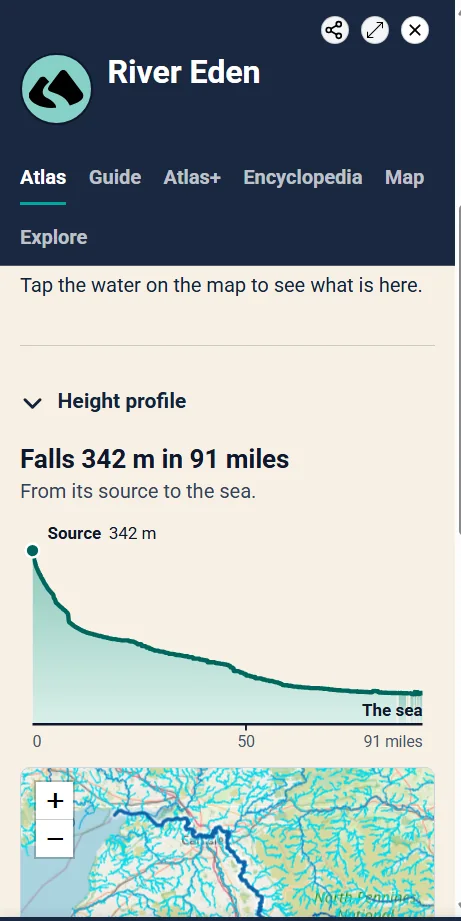
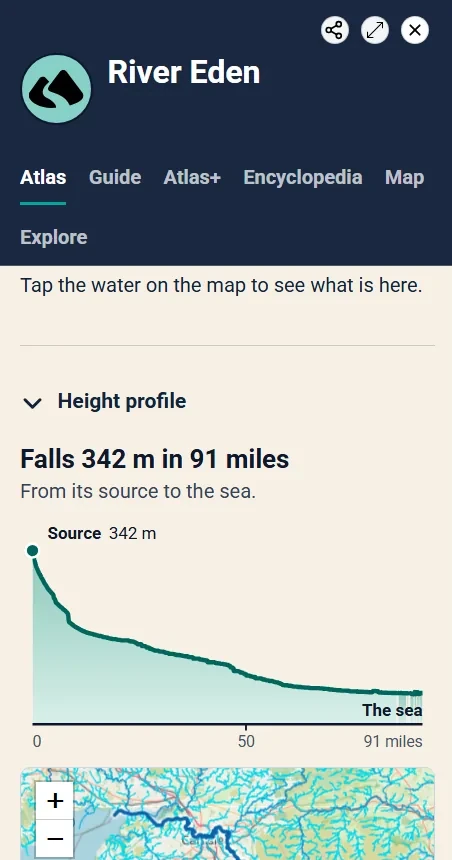
Crop the beta screens to the panel itself
Each of the six screens carried a 9-pixel strip of the browser's own
scrollbar down its right-hand side, which showed as a ragged gap inside
the phone frame. Crop each to the panel (452 x 860, the part the frame
shows), set the frame's proportions to match, and version the CSS and
image links so browsers fetch the new files.

diff --git a/index.html b/index.html
@@ -19,7 +19,7 @@
   <meta name="twitter:card" content="summary_large_image" />
   <link rel="icon" href="assets/images/raster/boat_button.png" />
   <link rel="stylesheet" href="https://fonts.googleapis.com/css?family=Roboto:400,500,700,900&display=swap" />
-  <link rel="stylesheet" href="assets/css/site.css?v=20261118-1" />
+  <link rel="stylesheet" href="assets/css/site.css?v=20261119-1" />
 </head>
 <body>
   <a class="skip-link" href="#main-content">Skip to main content</a>
@@ -136,7 +136,7 @@
             <li>River Paths</li><li>Viewing Points</li><li>Riverside Food and Drink</li><li>Toilets</li>
           </ul>
           <figure class="atlas-card__screen">
-            <img src="assets/images/screens/walks-richmond-hill.webp" width="461" height="921" loading="lazy" alt="The EveryRiver panel for Richmond Hill, a viewing point on the River Thames: a photo of the view over Glover’s Island, and its view types, panorama, heritage view, boating view and urban riverscape." />
+            <img src="assets/images/screens/walks-richmond-hill.webp?v=20261119" width="452" height="860" loading="lazy" alt="The EveryRiver panel for Richmond Hill, a viewing point on the River Thames: a photo of the view over Glover’s Island, and its view types, panorama, heritage view, boating view and urban riverscape." />
             <figcaption>Richmond Hill, River Thames</figcaption>
           </figure>
         </article>
@@ -148,7 +148,7 @@
             <li>Locks</li><li>Moorings</li><li>Boating Facilities</li><li>Closures and Warnings</li>
           </ul>
           <figure class="atlas-card__screen">
-            <img src="assets/images/screens/boating-teddington-lock.webp" width="461" height="921" loading="lazy" alt="The EveryRiver panel for Teddington Lock: drawings of the barge lock from above and from the side, 198 metres long, 7.5 metres wide, with a lift of 2.7 metres, a conventional single chamber with powered mitre gates." />
+            <img src="assets/images/screens/boating-teddington-lock.webp?v=20261119" width="452" height="860" loading="lazy" alt="The EveryRiver panel for Teddington Lock: drawings of the barge lock from above and from the side, 198 metres long, 7.5 metres wide, with a lift of 2.7 metres, a conventional single chamber with powered mitre gates." />
             <figcaption>Teddington Lock, River Thames</figcaption>
           </figure>
         </article>
@@ -160,7 +160,7 @@
             <li>Watersport Facilities</li><li>Wild Swimming</li><li>Canoe etc Put-Ins</li><li>Slipways</li>
           </ul>
           <figure class="atlas-card__screen">
-            <img src="assets/images/screens/watersports-richmond-canoe-club.webp" width="461" height="921" loading="lazy" alt="The EveryRiver panel for Richmond Canoe Club: a photo of racks of canoes and kayaks in the boathouse, and its sport, canoe and kayak." />
+            <img src="assets/images/screens/watersports-richmond-canoe-club.webp?v=20261119" width="452" height="860" loading="lazy" alt="The EveryRiver panel for Richmond Canoe Club: a photo of racks of canoes and kayaks in the boathouse, and its sport, canoe and kayak." />
             <figcaption>Richmond Canoe Club, River Thames</figcaption>
           </figure>
         </article>
@@ -172,7 +172,7 @@
             <li>Fish</li><li>Fish Passes</li><li>Wetland</li><li>Species</li>
           </ul>
           <figure class="atlas-card__screen">
-            <img src="assets/images/screens/wildlife-common-kingfisher.webp" width="461" height="921" loading="lazy" alt="The EveryRiver panel for the Common Kingfisher, showing where it has been seen: 1,971 sightings, 1,685 in England, 193 in Scotland and 93 in Wales, and the rivers where it is most seen, led by the River Thames and the River Frome." />
+            <img src="assets/images/screens/wildlife-common-kingfisher.webp?v=20261119" width="452" height="860" loading="lazy" alt="The EveryRiver panel for the Common Kingfisher, showing where it has been seen: 1,971 sightings, 1,685 in England, 193 in Scotland and 93 in Wales, and the rivers where it is most seen, led by the River Thames and the River Frome." />
             <figcaption>Common Kingfisher, where it has been seen</figcaption>
           </figure>
         </article>
@@ -184,7 +184,7 @@
             <li>Historic Buildings</li><li>Watermills</li><li>Historic sites</li><li>Fords</li>
           </ul>
           <figure class="atlas-card__screen">
-            <img src="assets/images/screens/history-richmond-bridge.webp" width="461" height="921" loading="lazy" alt="The EveryRiver panel for Richmond Bridge: an evening photo of the stone arches lit over the River Thames, with geese on the water." />
+            <img src="assets/images/screens/history-richmond-bridge.webp?v=20261119" width="452" height="860" loading="lazy" alt="The EveryRiver panel for Richmond Bridge: an evening photo of the stone arches lit over the River Thames, with geese on the water." />
             <figcaption>Richmond Bridge, River Thames</figcaption>
           </figure>
         </article>
@@ -196,7 +196,7 @@
             <li>River Flow Rates</li><li>River Sources</li><li>Pollutant Discharges</li><li>Waterfalls</li>
           </ul>
           <figure class="atlas-card__screen">
-            <img src="assets/images/screens/water-river-eden.webp" width="461" height="921" loading="lazy" alt="The EveryRiver panel for the River Eden in Cumbria: its height profile, falling 342 metres in 91 miles from its source to the sea." />
+            <img src="assets/images/screens/water-river-eden.webp?v=20261119" width="452" height="860" loading="lazy" alt="The EveryRiver panel for the River Eden in Cumbria: its height profile, falling 342 metres in 91 miles from its source to the sea." />
             <figcaption>River Eden, Cumbria</figcaption>
           </figure>
         </article>

diff --git a/assets/css/site.css b/assets/css/site.css
@@ -158,7 +158,7 @@ h3 { margin-bottom: 12px; font-size: clamp(1.25rem, 2vw, 1.65rem); }
 .atlas-card__layers { margin: 0 0 26px; padding: 0; display: flex; flex-wrap: wrap; gap: 6px; list-style: none; }
 .atlas-card__layers li { padding: 4px 11px; color: var(--navy); background: var(--card-soft); border-radius: 999px; font-size: 0.82rem; font-weight: 700; line-height: 1.4; }
 .atlas-card__screen { margin: auto 0 0; }
-.atlas-card__screen img { width: min(100%, 260px); aspect-ratio: 461 / 860; margin-inline: auto; object-fit: cover; object-position: top; background: var(--cream); border: 6px solid var(--navy); border-radius: 24px; box-shadow: var(--shadow-raised); }
+.atlas-card__screen img { width: min(100%, 260px); aspect-ratio: 452 / 860; margin-inline: auto; object-fit: cover; object-position: top; background: var(--cream); border: 6px solid var(--navy); border-radius: 24px; box-shadow: var(--shadow-raised); }
 .atlas-card__screen figcaption { margin-top: 12px; color: var(--muted); font-size: 0.86rem; text-align: center; }
 .atlas-note { margin-top: 26px; margin-bottom: 0; color: var(--muted); font-size: 0.86rem; }
 .atlas-card--sport { --card-accent: var(--sport); --card-soft: var(--sport-soft); }

diff --git a/privacy.html b/privacy.html
@@ -9,7 +9,7 @@
   <link rel="canonical" href="https://www.every-river.org/privacy.html" />
   <link rel="icon" href="assets/images/raster/boat_button.png" />
   <link rel="stylesheet" href="https://fonts.googleapis.com/css?family=Roboto:400,500,700,900&display=swap" />
-  <link rel="stylesheet" href="assets/css/site.css?v=20261118-1" />
+  <link rel="stylesheet" href="assets/css/site.css?v=20261119-1" />
 </head>
 <body>
   <a class="skip-link" href="#main-content">Skip to main content</a>

diff --git a/follow.html b/follow.html
@@ -9,7 +9,7 @@
   <link rel="canonical" href="https://www.every-river.org/follow.html" />
   <link rel="icon" href="assets/images/raster/boat_button.png" />
   <link rel="stylesheet" href="https://fonts.googleapis.com/css?family=Roboto:400,500,700,900&display=swap" />
-  <link rel="stylesheet" href="assets/css/site.css?v=20261118-1" />
+  <link rel="stylesheet" href="assets/css/site.css?v=20261119-1" />
 </head>
 <body>
   <a class="skip-link" href="#main-content">Skip to main content</a>

diff --git a/about.html b/about.html
@@ -9,7 +9,7 @@
   <link rel="canonical" href="https://www.every-river.org/about.html" />
   <link rel="icon" href="assets/images/raster/boat_button.png" />
   <link rel="stylesheet" href="https://fonts.googleapis.com/css?family=Roboto:400,500,700,900&display=swap" />
-  <link rel="stylesheet" href="assets/css/site.css?v=20261118-1" />
+  <link rel="stylesheet" href="assets/css/site.css?v=20261119-1" />
 </head>
 <body>
   <a class="skip-link" href="#main-content">Skip to main content</a>

diff --git a/README.md b/README.md
@@ -22,7 +22,7 @@ Shared public-site styles are in `assets/css/site.css`.
 ## Product media
 
 - `demonstration-video`: 16:9 film, poster, caption and transcript
-- `assets/images/screens/`: one real beta screen for each of the six interests the beta asks a first visitor about (Walks and days out, Boating, Watersports, Wildlife, History, Water and landscape). Captured from the beta's feature panel on 18 November 2026, 461 × 921 WebP.
+- `assets/images/screens/`: one real beta screen for each of the six interests the beta asks a first visitor about (Walks and days out, Boating, Watersports, Wildlife, History, Water and landscape). Captured from the beta's feature panel on 18 November 2026, 452 × 860 WebP, cropped to the panel itself.
 - `assets/images/svg/interests/`: the beta's own six interest icons, copied from `rivers/static/rivers/SVG/` in the website repository.
 
 Do not reveal an empty slot. Add product media only after its alternative text, caption, credit and permission details are complete. A screen may show only photos that are public domain, CC0 or EveryRiver's own; iNaturalist photos are often non-commercial and are not used. Layer names on the page are exactly the beta layer menu's names.
